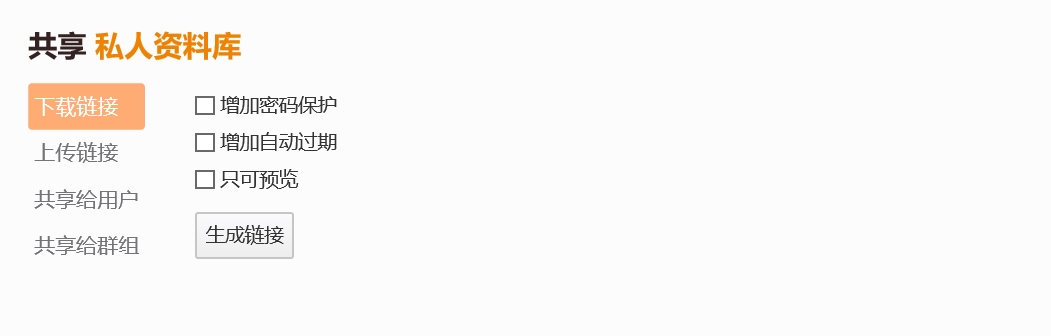
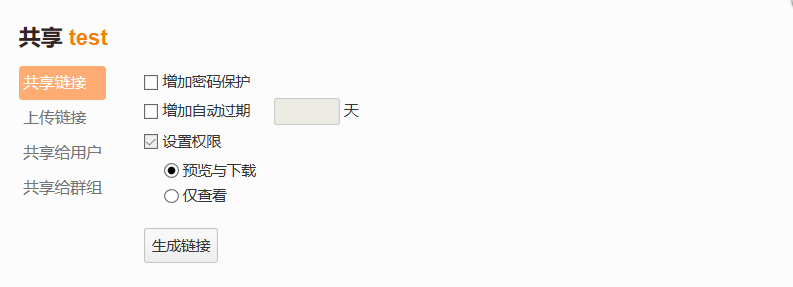
update share link

diff --git a/zh/web_client/share_collaboration.md b/zh/web_client/share_collaboration.md
@@ -93,14 +93,21 @@
 
 ## 外链共享
 
-共享外链是文件或文件夹的公共链接,任何人都可以访问它们,包括那些没有 Seafile 帐号的人。目前有两种类型的外链:
+共享外链是文件或文件夹的公共链接，任何人都可以访问它们，包括那些没有Seafile帐号的人。目前有两种类型的外链：
 
-* 下载链接:为他人下载资料库、文件夹或者文件而创建。
-* 上传链接:您可以使用上传链接收集他人的文件或者文件夹。您只能为资料库或者文件夹创建上传链接。其他人无法看到文件夹中的文件。他们只能将文件或者文件夹上传到链接。
+* 共享链接：为他人下载资料库、文件夹或者文件而创建。
+* 上传链接：您可以使用上传链接收集他人的文件或者文件夹。您只能为资料库或者文件夹创建上传链接。其他人无法看到文件夹中的文件。他们只能将文件或者文件夹上传到链接。
 
-点击资料库或者文件夹右侧的“共享“按钮,选择生成一个上传链接或者下载链接。如果是文件,则只支持生成下载链接。Seafile 支持为下载链接设置密码和过期时间,也可以设置“只可预览”。Seafile 对于上传链接也支持设置密码。
+点击资料库或者文件夹右侧的“共享“按钮，选择生成一个共享链接或者上传链接。
 
 ![](./imgs/shared-link.png)
+
+如果是文件，则只支持生成共享链接。Seafile支持为共享链接设置密码和过期时间，也可以设置共享链接的权限，包括“预览与下载”、“仅查看”和“云端编辑与下载”：
+* “预览与下载”表示接收者既可以预览，也可以下载链接中的文件。
+* “仅查看”表示允许接收者在线预览链接中的文件，但不允许下载。
+* “云端编辑与下载” 只有当用户为一个Office文件设置共享链接权限时才能勾选。表示接收者既可以在线编辑，也可以下载链接中的文件。
+
+![](./imgs/shared-office-link.png)
 
 ## 共享链接管理
 
